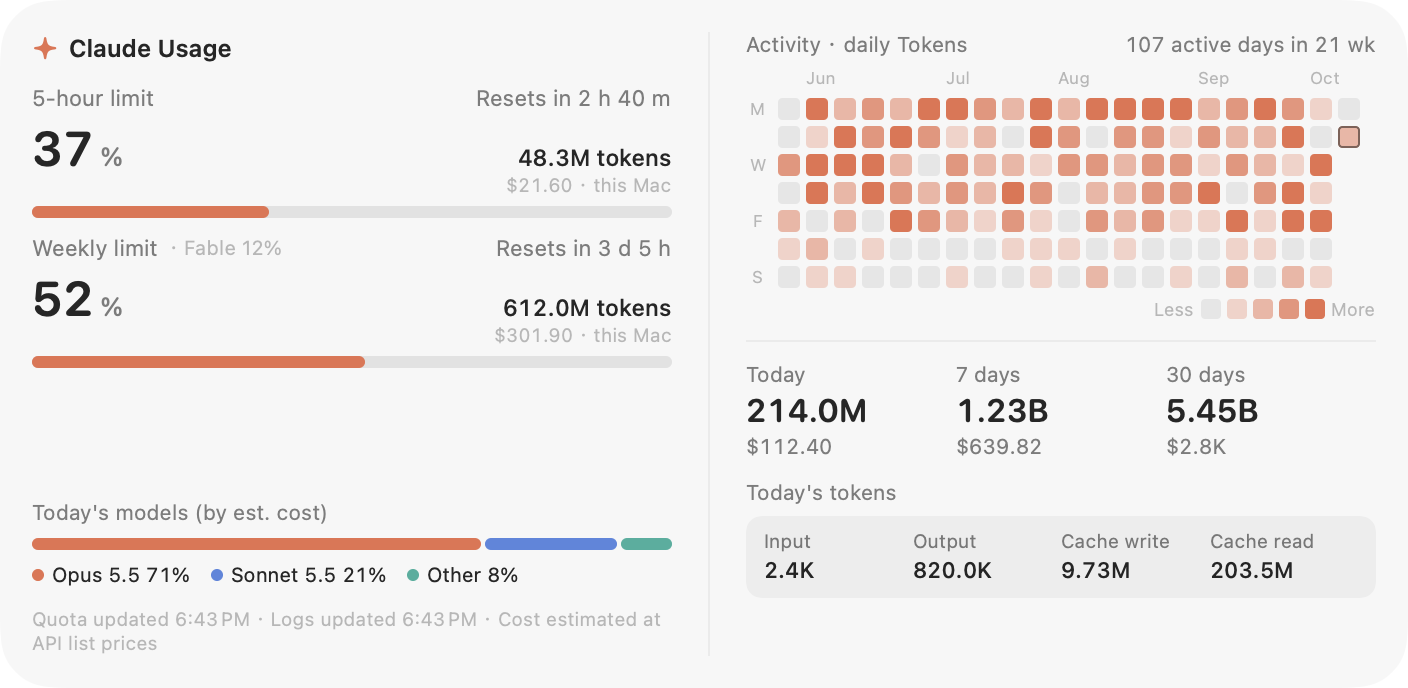
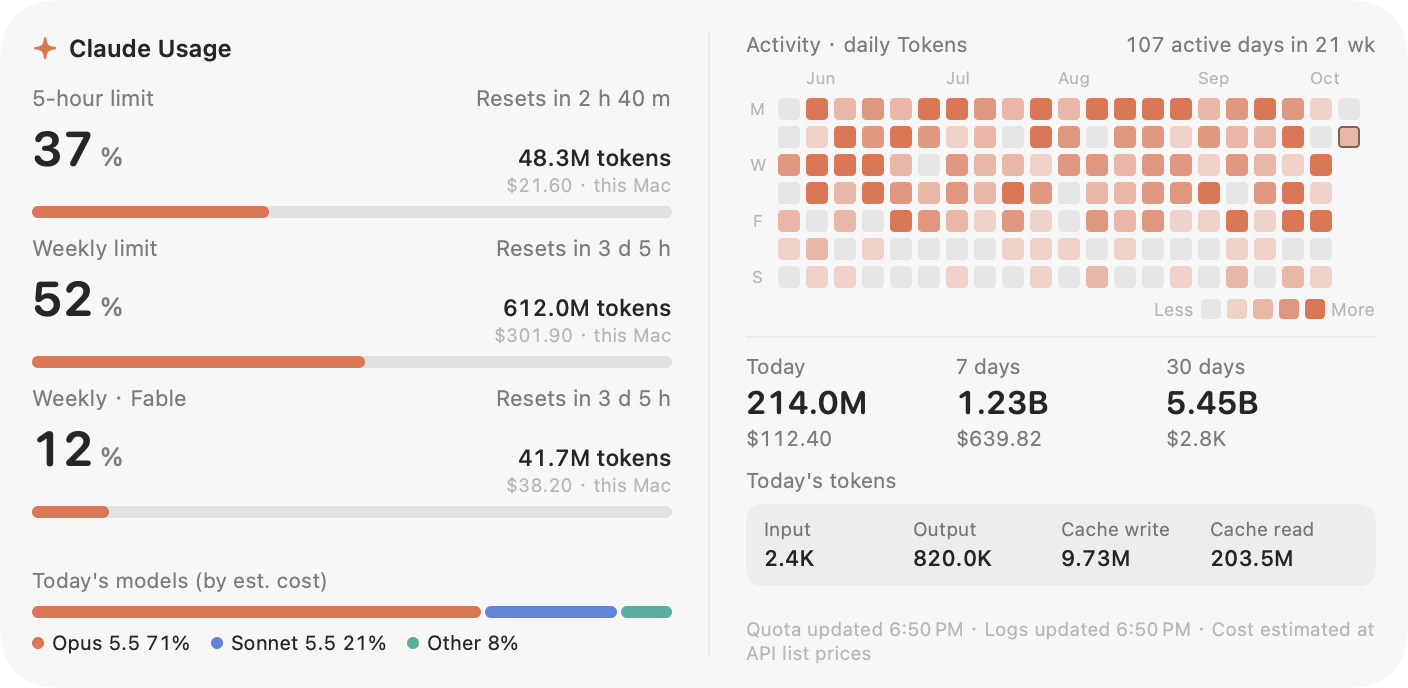
Show per-model weekly limits as rows in the extra large layout
Each per-model weekly window (for example Fable) now gets its own row with
percentage, reset countdown and the local usage of that model inside the
window. With two or more such windows the model split gives way so the
layout still fits; the footer moves to the right column.

diff --git a/Sources/WidgetView.swift b/Sources/WidgetView.swift
@@ -131,7 +131,7 @@ private struct LargeLayout: View {
         VStack(alignment: .leading, spacing: 8) {
             Header(title: tr("Claude 用量", "Claude Usage"),
                    trailing: "\(tr("今日", "Today")) \(formatTokens(ctx.snapshot.today.tokens))", showsRefresh: true, ctx: ctx)
-            QuotaStandardSection(ctx: ctx, dense: true)
+            QuotaStandardSection(ctx: ctx, extrasAsRows: false)
             Divider().opacity(0.5)
             Heatmap(history: ctx.snapshot.history, metric: ctx.metric,
                     spec: .init(width: 312, cellCap: 11, gap: 3, minCell: 9, minWeeks: 20, maxWeeks: 26,
@@ -148,14 +148,14 @@ private struct ExtraLargeLayout: View {
         HStack(alignment: .top, spacing: 18) {
             VStack(alignment: .leading, spacing: 10) {
                 Header(title: tr("Claude 用量", "Claude Usage"), trailing: nil, showsRefresh: false, ctx: ctx)
-                QuotaStandardSection(ctx: ctx, dense: true)
+                QuotaStandardSection(ctx: ctx, extrasAsRows: true)
                 Spacer(minLength: 0)
-                ModelBar(shares: ctx.snapshot.todayModels)
-                Footer(ctx: ctx)
+                // Two or more per-model rows take the room of the model split.
+                if (ctx.snapshot.quota?.extras.count ?? 0) <= 1 { ModelBar(shares: ctx.snapshot.todayModels) }
             }
             .frame(width: 320)
             Divider().opacity(0.5)
-            VStack(alignment: .leading, spacing: 10) {
+            VStack(alignment: .leading, spacing: 8) {
                 Heatmap(history: ctx.snapshot.history, metric: ctx.metric,
                         spec: .init(width: 314, cellCap: 11, gap: 3, minCell: 9, minWeeks: 20, maxWeeks: 26,
                                     labelColumn: 16, title: tr("使用热力图 · 每日 \(ctx.metric.title)", "Activity · daily \(ctx.metric.title)"), legend: .below))
@@ -163,6 +163,7 @@ private struct ExtraLargeLayout: View {
                 PeriodsRow(snapshot: ctx.snapshot)
                 BreakdownRow(totals: ctx.snapshot.today)
                 Spacer(minLength: 0)
+                Footer(ctx: ctx)
             }
             .frame(maxWidth: .infinity)
         }
@@ -300,25 +301,27 @@ private struct LocalCompact: View {
     }
 }
 
-/// Two full quota readouts with local window totals, for the large and extra large classes.
+/// Full quota readouts with local window totals, for the large and extra large classes.
+/// Per-model weekly limits are shown as rows of their own or, when space is short, as a badge on the weekly row.
 private struct QuotaStandardSection: View {
     let ctx: LayoutContext
-    let dense: Bool
+    let extrasAsRows: Bool
 
     var body: some View {
         let s = ctx.snapshot
         TimelineView(.periodic(from: .now, by: 30)) { context in
-            VStack(alignment: .leading, spacing: dense ? 8 : 14) {
+            VStack(alignment: .leading, spacing: 8) {
                 if let quota = s.quota {
                     QuotaRow(title: tr("5 小时额度", "5-hour limit"), window: quota.fiveHour, totals: s.fiveHourWindow,
-                             now: context.date, dense: dense)
+                             now: context.date)
                     QuotaRow(title: tr("每周额度", "Weekly limit"), window: quota.sevenDay, totals: s.weekWindow,
-                             now: context.date, dense: dense,
-                             badge: dense && !quota.extras.isEmpty ? extrasText(quota) : nil)
-                    if !dense && !quota.extras.isEmpty {
-                        Text(tr("按模型每周：", "Per-model weekly: ") + extrasText(quota))
-                            .font(.system(size: 10))
-                            .foregroundStyle(.secondary)
+                             now: context.date,
+                             badge: !extrasAsRows && !quota.extras.isEmpty ? extrasText(quota) : nil)
+                    if extrasAsRows {
+                        ForEach(Array(quota.extras.prefix(2).enumerated()), id: \.offset) { _, extra in
+                            QuotaRow(title: tr("每周 · \(extra.label)", "Weekly · \(extra.label)"),
+                                     window: extra.window, totals: s.extraWindows[extra.label], now: context.date)
+                        }
                     }
                 } else {
                     LocalEstimate(ctx: ctx, now: context.date)
@@ -339,7 +342,6 @@ private struct QuotaRow: View {
     let window: QuotaWindow?
     let totals: Totals?
     let now: Date
-    let dense: Bool
     var badge: String?
 
     var body: some View {
@@ -347,7 +349,7 @@ private struct QuotaRow: View {
         let expired = window.map { $0.resetsAt <= now } ?? false
         let percent = expired ? 0 : (window?.usedPercent ?? 0)
 
-        VStack(alignment: .leading, spacing: dense ? 4 : 7) {
+        VStack(alignment: .leading, spacing: 4) {
             HStack(spacing: 5) {
                 Text(title)
                     .font(.system(size: 11))
@@ -364,7 +366,7 @@ private struct QuotaRow: View {
             }
             HStack(alignment: .firstTextBaseline, spacing: 3) {
                 Text("\(Int(percent.rounded()))")
-                    .font(.system(size: dense ? 24 : 30, weight: .semibold, design: .rounded).monospacedDigit())
+                    .font(.system(size: 24, weight: .semibold, design: .rounded).monospacedDigit())
                 Text("%")
                     .font(.system(size: 13, weight: .medium, design: .rounded))
                     .foregroundStyle(.secondary)

diff --git a/Sources/UsageStore.swift b/Sources/UsageStore.swift
@@ -130,6 +130,8 @@ struct Snapshot {
     /// Local totals inside the server-side windows (reset time minus 5 h / 7 d); nil when the window is unknown or over.
     let fiveHourWindow: Totals?
     let weekWindow: Totals?
+    /// Local totals inside each per-model weekly window, keyed by the window label.
+    let extraWindows: [String: Totals]
     let history: [Date: DayStat]
     let updatedAt: Date
 }
@@ -259,9 +261,14 @@ final class UsageScanner {
         return out
     }
 
-    private func totals(from start: Date, to end: Date) -> Totals {
+    /// Totals of the records inside a window; `model` restricts them to model ids that contain the given name.
+    private func totals(from start: Date, to end: Date, model: String? = nil) -> Totals {
+        let needle = model?.lowercased()
         var t = Totals()
-        for r in records.values where r.timestamp >= start && r.timestamp <= end { t.add(r) }
+        for r in records.values where r.timestamp >= start && r.timestamp <= end {
+            if let needle, !r.model.lowercased().contains(needle) { continue }
+            t.add(r)
+        }
         return t
     }
 
@@ -307,6 +314,11 @@ final class UsageScanner {
             quota: quota,
             fiveHourWindow: quota?.fiveHour.flatMap { $0.resetsAt > now ? totals(from: $0.resetsAt.addingTimeInterval(-Self.blockLength), to: now) : nil },
             weekWindow: quota?.sevenDay.flatMap { $0.resetsAt > now ? totals(from: $0.resetsAt.addingTimeInterval(-7 * 86_400), to: now) : nil },
+            extraWindows: Dictionary(uniqueKeysWithValues: (quota?.extras ?? []).compactMap { extra in
+                extra.window.resetsAt > now
+                    ? (extra.label, totals(from: extra.window.resetsAt.addingTimeInterval(-7 * 86_400), to: now, model: extra.label))
+                    : nil
+            }),
             history: history,
             updatedAt: now)
     }

diff --git a/Sources/Demo.swift b/Sources/Demo.swift
@@ -47,6 +47,7 @@ enum DemoData {
 
         var fiveHour = Totals(); fiveHour.tokens = 48_300_000; fiveHour.cost = 21.6; fiveHour.messages = 150
         var week = Totals(); week.tokens = 612_000_000; week.cost = 301.9; week.messages = 1_850
+        var fable = Totals(); fable.tokens = 41_700_000; fable.cost = 38.2; fable.messages = 120
 
         let days = (0..<7).map { i -> DayBar in
             let d = cal.date(byAdding: .day, value: i - 6, to: today)!
@@ -63,6 +64,6 @@ enum DemoData {
                 ModelShare(name: "Sonnet 5.5", cost: 24, share: 0.21),
                 ModelShare(name: "Other", cost: 8, share: 0.08, isOther: true),
             ],
-            quota: quota, fiveHourWindow: fiveHour, weekWindow: week, history: history, updatedAt: now)
+            quota: quota, fiveHourWindow: fiveHour, weekWindow: week, extraWindows: ["Fable": fable], history: history, updatedAt: now)
     }
 }

diff --git a/README.zh-CN.md b/README.zh-CN.md
@@ -28,7 +28,7 @@ macOS 原生桌面小组件，显示 Claude 订阅的 5 小时与每周额度、
 | 小 | 164 × 164 | 5 小时与每周额度 |
 | 中 | 344 × 164 | 两项额度、热力图、今日用量 |
 | 大（默认） | 344 × 344 | 两项额度（含本机窗口用量与按模型额度）、热力图 |
-| 特大 | 704 × 344 | 大尺寸全部内容，另含近 7 / 30 日汇总、今日 token 构成、模型占比 |
+| 特大 | 704 × 344 | 大尺寸全部内容；按模型的每周额度（如 Fable）各占一行并显示本机在该窗口内的对应用量；另含近 7 / 30 日汇总、今日 token 构成、模型占比 |
 
 <p align="center">
   <img src="docs/images/small-zh-light.png" width="164" alt="小">

diff --git a/README.md b/README.md
@@ -28,7 +28,7 @@ A native macOS desktop widget that shows the plan limits of a Claude subscriptio
 | Small | 164 × 164 | 5-hour and weekly limits |
 | Medium | 344 × 164 | Both limits, heatmap, today's usage |
 | Large (default) | 344 × 344 | Both limits (with local window usage and per-model limits), heatmap |
-| Extra Large | 704 × 344 | Large, plus 7/30-day totals, today's token composition and model split |
+| Extra Large | 704 × 344 | Large, with every per-model weekly limit (for example Fable) as a row of its own, plus 7/30-day totals, today's token composition and model split |
 
 <p align="center">
   <img src="docs/images/small-en-light.png" width="164" alt="Small">
